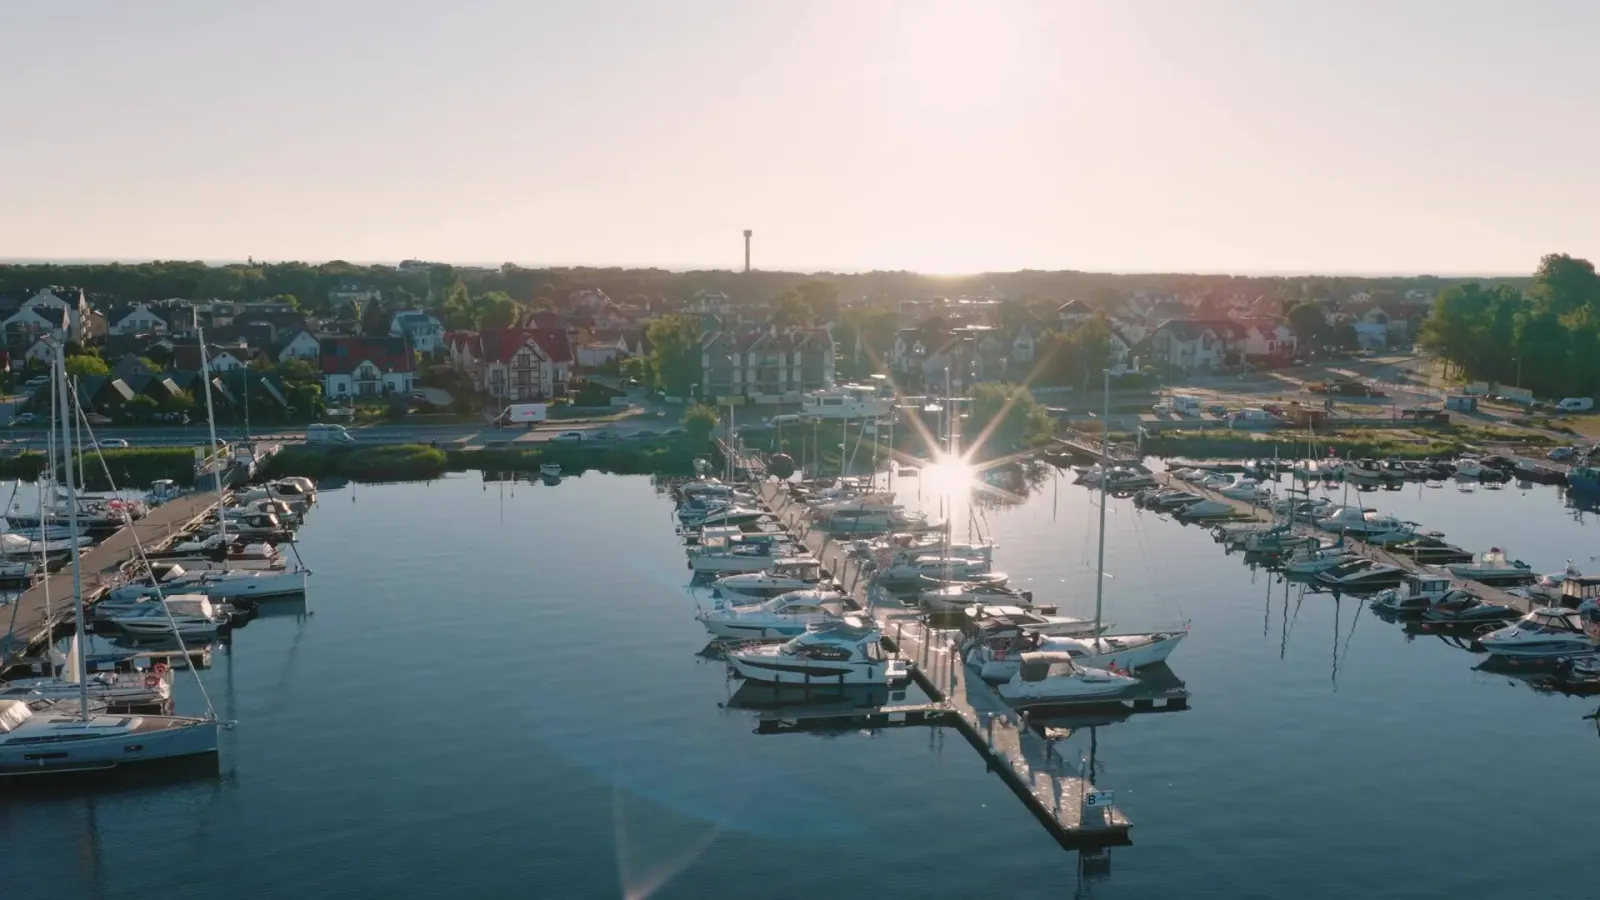
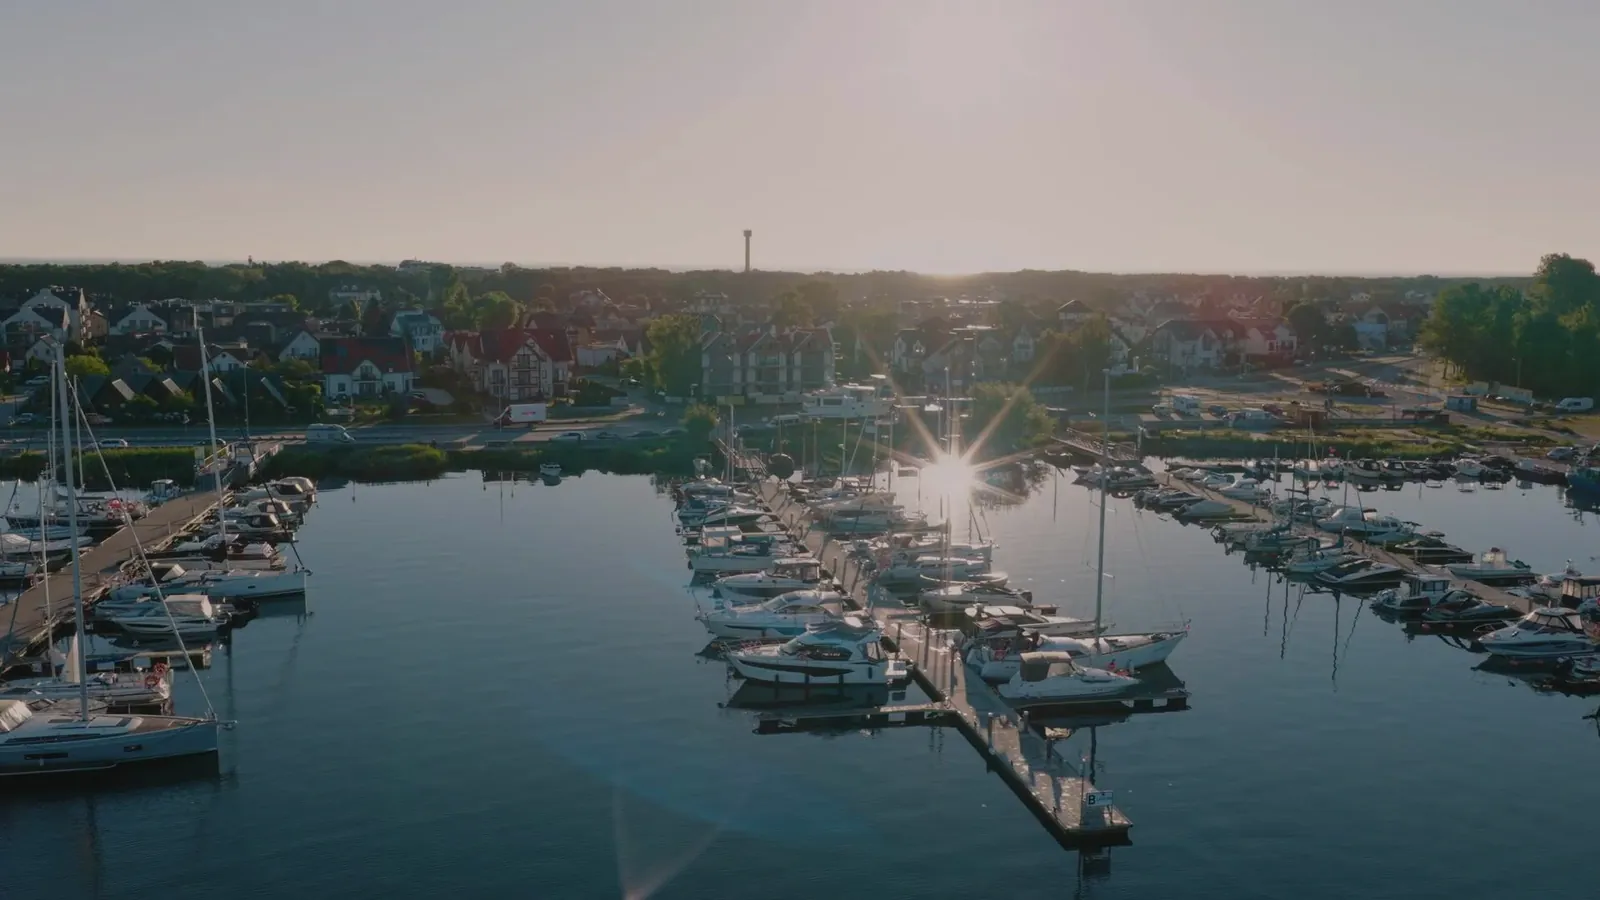
perf: mobile hero poster for LCP without CSS filter
Ship a 1080w baked WebP (~40KB) via picture, bake brightness into both posters, and preload the matching asset so the image can beat hero text on mobile.

diff --git a/src/data/home.ts b/src/data/home.ts
@@ -158,7 +158,9 @@ export interface HomeCopy {
   };
 }
 
-export const SHOWREEL_POSTER_PRELOAD = '/assets/video/showreel-poster.webp?v=20261017a';
+/** Cache-busted hero posters (brightness baked in). Preload both with media. */
+export const SHOWREEL_POSTER_PRELOAD = '/assets/video/showreel-poster.webp?v=20261017b';
+export const SHOWREEL_POSTER_MOBILE_PRELOAD = '/assets/video/showreel-poster-m.webp?v=20261017b';
 export const STUDIO_VIDEO_ID = 'b_MB9qpw6jE';
 
 const TEAM_BASE: Omit<HomeTeamMember, 'role'>[] = [

diff --git a/assets/css/styles.css b/assets/css/styles.css
@@ -415,7 +415,11 @@ main {
   width: 100%; height: 100%;
   max-width: none;
   object-fit: cover;
-  filter: brightness(0.78) saturate(1.05);
+  /* brightness/saturate baked into showreel-poster(-m).webp — keep LCP img filter-free */
+}
+.hero__video picture {
+  position: absolute; inset: 0;
+  display: block;
 }
 .hero__video video {
   position: absolute; inset: 0;
